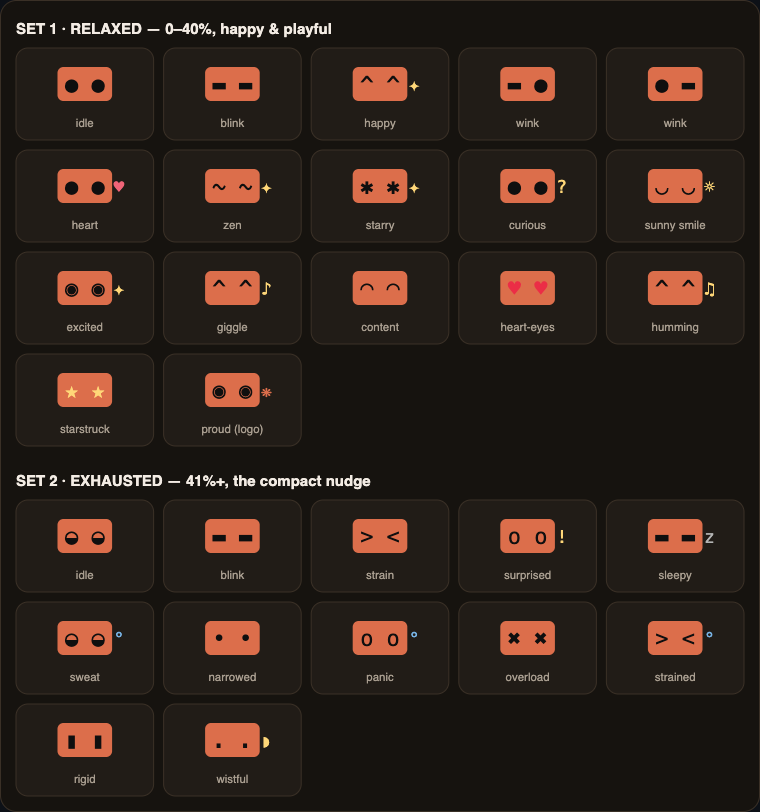
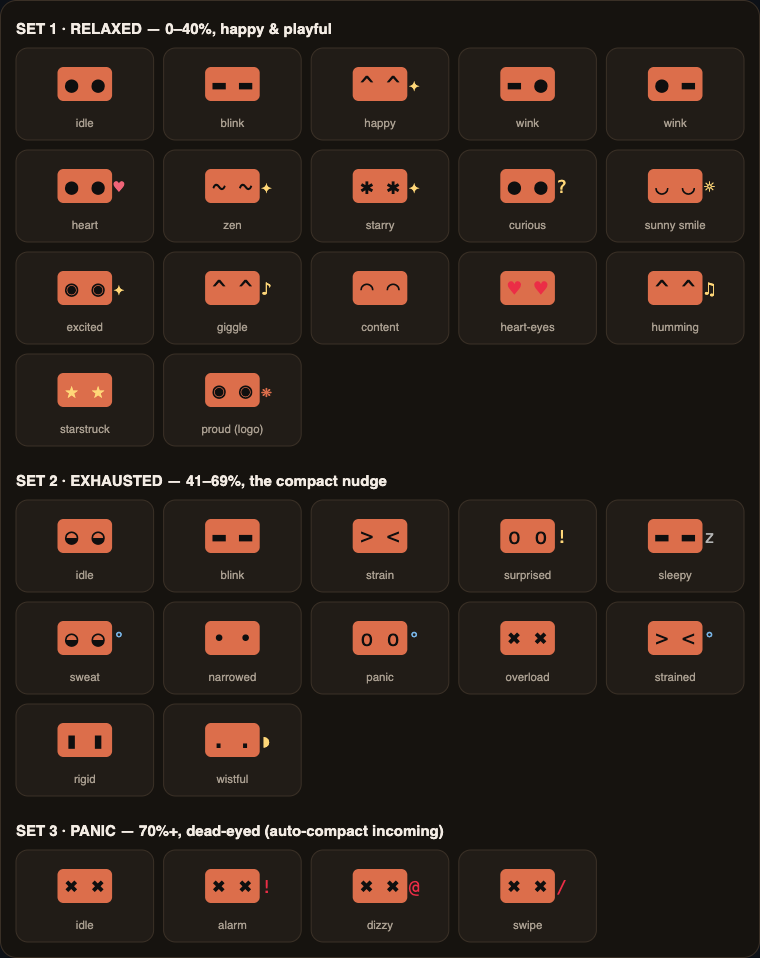
Add Panic mood (70%+) across pet, installer, README, assets, and demo

diff --git a/docs/index.html b/docs/index.html
@@ -19,7 +19,7 @@
  .cyc{position:relative;height:1.5em;--d:12s}
  .cyc .fr{position:absolute;left:0;right:0;top:0;opacity:0;animation:flick12 var(--d) infinite}
  @keyframes flick12{0%{opacity:1}8.33%{opacity:1}8.34%{opacity:0}100%{opacity:0}}
- .cyc-foc{display:none}
+ .cyc-foc,.cyc-panic{display:none}
  .body{background:var(--orange);border-radius:12px;display:inline-block;padding:4px 0}
  .deco{display:inline-block;padding:4px 0}
  .controls{display:flex;flex-direction:column;align-items:center;gap:12px;margin-top:30px}
@@ -42,8 +42,8 @@
  code.inline{background:#0e0c09;border:1px solid var(--line);border-radius:6px;padding:1px 6px;font-family:ui-monospace,Menlo,monospace;font-size:13px}
  footer{text-align:center;color:var(--dim);margin-top:54px;font-size:14px}
  #c60:checked ~ header .cyc-rel,#c80:checked ~ header .cyc-rel,#c100:checked ~ header .cyc-rel{display:none}
- #c60:checked ~ header .cyc-foc,#c80:checked ~ header .cyc-foc,#c100:checked ~ header .cyc-foc{display:block}
- #c0:checked ~ header .tab-rel,#c20:checked ~ header .tab-rel,#c40:checked ~ header .tab-rel,#c60:checked ~ header .tab-foc,#c80:checked ~ header .tab-foc,#c100:checked ~ header .tab-foc{background:var(--orange);color:#1a120c;font-weight:600}
+ #c60:checked ~ header .cyc-foc{display:block}#c80:checked ~ header .cyc-panic,#c100:checked ~ header .cyc-panic{display:block}
+ #c0:checked ~ header .tab-rel,#c20:checked ~ header .tab-rel,#c40:checked ~ header .tab-rel,#c60:checked ~ header .tab-foc,#c80:checked ~ header .tab-panic,#c100:checked ~ header .tab-panic{background:var(--orange);color:#1a120c;font-weight:600}
  #c0:checked ~ header .pip-0,#c20:checked ~ header .pip-20,#c40:checked ~ header .pip-40,#c60:checked ~ header .pip-60,#c80:checked ~ header .pip-80,#c100:checked ~ header .pip-100{background:var(--orange);color:#1a120c;font-weight:600}
  #c0:checked ~ header .ctxbadge,#c20:checked ~ header .ctxbadge,#c40:checked ~ header .ctxbadge{color:#62c462}
  #c60:checked ~ header .ctxbadge{color:#ffd778}
@@ -62,17 +62,18 @@
    <div class="stage">
      <div class="tabs">
        <label for="c20" class="tab tab-rel">🙂 Relaxed</label>
-       <label for="c80" class="tab tab-foc">😩 Exhausted</label>
+       <label for="c60" class="tab tab-foc">😩 Exhausted</label>
+       <label for="c80" class="tab tab-panic">💀 Panic</label>
      </div>
-     <div id="hero"><div class="cyc cyc-rel pet-mono"><div class="fr" style="animation-delay:-0s"><span class="deco"> </span><span class="body" style="color:#0f0f0f"> ● ●</span><span class="deco" style="color:transparent"> </span></div><div class="fr" style="animation-delay:-1s"><span class="deco"> </span><span class="body" style="color:#0f0f0f"> ▬ ▬</span><span class="deco" style="color:transparent"> </span></div><div class="fr" style="animation-delay:-2s"><span class="deco"> </span><span class="body" style="color:#0f0f0f"> ● ●</span><span class="deco" style="color:transparent"> </span></div><div class="fr" style="animation-delay:-3s"><span class="deco"> </span><span class="body" style="color:#0f0f0f"> ^ ^</span><span class="deco" style="color:#ffd778">✦</span></div><div class="fr" style="animation-delay:-4s"><span class="deco"> </span><span class="body" style="color:#0f0f0f"> ● ●</span><span class="deco" style="color:transparent"> </span></div><div class="fr" style="animation-delay:-5s"><span class="deco"> </span><span class="body" style="color:#0f0f0f">● ● </span><span class="deco" style="color:transparent"> </span></div><div class="fr" style="animation-delay:-6s"><span class="deco"> </span><span class="body" style="color:#0f0f0f"> ● ●</span><span class="deco" style="color:transparent"> </span></div><div class="fr" style="animation-delay:-7s"><span class="deco"> </span><span class="body" style="color:#0f0f0f"> ● ●</span><span class="deco" style="color:transparent"> </span></div><div class="fr" style="animation-delay:-8s"><span class="deco"> </span><span class="body" style="color:#0f0f0f"> ▬ ▬</span><span class="deco" style="color:transparent"> </span></div><div class="fr" style="animation-delay:-9s"><span class="deco"> </span><span class="body" style="color:#0f0f0f"> ● ●</span><span class="deco" style="color:#f06478">♥︎</span></div><div class="fr" style="animation-delay:-10s"><span class="deco"> </span><span class="body" style="color:#0f0f0f"> ● ●</span><span class="deco" style="color:transparent"> </span></div><div class="fr" style="animation-delay:-11s"><span class="deco"> </span><span class="body" style="color:#0f0f0f"> ● ●</span><span class="deco" style="color:transparent"> </span></div></div><div class="cyc cyc-foc pet-mono"><div class="fr" style="animation-delay:-0s"><span class="deco"> </span><span class="body" style="color:#0f0f0f"> ◒ ◒</span><span class="deco" style="color:transparent"> </span></div><div class="fr" style="animation-delay:-1s"><span class="deco"> </span><span class="body" style="color:#0f0f0f"> ▬ ▬</span><span class="deco" style="color:transparent"> </span></div><div class="fr" style="animation-delay:-2s"><span class="deco"> </span><span class="body" style="color:#0f0f0f"> ◒ ◒</span><span class="deco" style="color:#78b4e6">°</span></div><div class="fr" style="animation-delay:-3s"><span class="deco"> </span><span class="body" style="color:#0f0f0f"> ◒ ◒</span><span class="deco" style="color:transparent"> </span></div><div class="fr" style="animation-delay:-4s"><span class="deco"> </span><span class="body" style="color:#0f0f0f">◒ ◒ </span><span class="deco" style="color:transparent"> </span></div><div class="fr" style="animation-delay:-5s"><span class="deco"> </span><span class="body" style="color:#0f0f0f"> ◒ ◒</span><span class="deco" style="color:transparent"> </span></div><div class="fr" style="animation-delay:-6s"><span class="deco"> </span><span class="body" style="color:#0f0f0f"> ✖︎ ✖︎</span><span class="deco" style="color:transparent"> </span></div><div class="fr" style="animation-delay:-7s"><span class="deco"> </span><span class="body" style="color:#0f0f0f"> ◒ ◒</span><span class="deco" style="color:transparent"> </span></div><div class="fr" style="animation-delay:-8s"><span class="deco"> </span><span class="body" style="color:#0f0f0f"> ▬ ▬</span><span class="deco" style="color:transparent"> </span></div><div class="fr" style="animation-delay:-9s"><span class="deco"> </span><span class="body" style="color:#0f0f0f"> ◒ ◒</span><span class="deco" style="color:transparent"> </span></div><div class="fr" style="animation-delay:-10s"><span class="deco"> </span><span class="body" style="color:#0f0f0f"> . .</span><span class="deco" style="color:#ffd778">◗</span></div><div class="fr" style="animation-delay:-11s"><span class="deco"> </span><span class="body" style="color:#0f0f0f"> ◒ ◒</span><span class="deco" style="color:transparent"> </span></div></div></div>
+     <div id="hero"><div class="cyc cyc-rel pet-mono"><div class="fr" style="animation-delay:-0s"><span class="deco"> </span><span class="body" style="color:#0f0f0f"> ● ●</span><span class="deco" style="color:transparent"> </span></div><div class="fr" style="animation-delay:-1s"><span class="deco"> </span><span class="body" style="color:#0f0f0f"> ▬ ▬</span><span class="deco" style="color:transparent"> </span></div><div class="fr" style="animation-delay:-2s"><span class="deco"> </span><span class="body" style="color:#0f0f0f"> ● ●</span><span class="deco" style="color:transparent"> </span></div><div class="fr" style="animation-delay:-3s"><span class="deco"> </span><span class="body" style="color:#0f0f0f"> ^ ^</span><span class="deco" style="color:#ffd778">✦</span></div><div class="fr" style="animation-delay:-4s"><span class="deco"> </span><span class="body" style="color:#0f0f0f"> ● ●</span><span class="deco" style="color:transparent"> </span></div><div class="fr" style="animation-delay:-5s"><span class="deco"> </span><span class="body" style="color:#0f0f0f">● ● </span><span class="deco" style="color:transparent"> </span></div><div class="fr" style="animation-delay:-6s"><span class="deco"> </span><span class="body" style="color:#0f0f0f"> ● ●</span><span class="deco" style="color:transparent"> </span></div><div class="fr" style="animation-delay:-7s"><span class="deco"> </span><span class="body" style="color:#0f0f0f"> ● ●</span><span class="deco" style="color:transparent"> </span></div><div class="fr" style="animation-delay:-8s"><span class="deco"> </span><span class="body" style="color:#0f0f0f"> ▬ ▬</span><span class="deco" style="color:transparent"> </span></div><div class="fr" style="animation-delay:-9s"><span class="deco"> </span><span class="body" style="color:#0f0f0f"> ● ●</span><span class="deco" style="color:#f06478">♥︎</span></div><div class="fr" style="animation-delay:-10s"><span class="deco"> </span><span class="body" style="color:#0f0f0f"> ● ●</span><span class="deco" style="color:transparent"> </span></div><div class="fr" style="animation-delay:-11s"><span class="deco"> </span><span class="body" style="color:#0f0f0f"> ● ●</span><span class="deco" style="color:transparent"> </span></div></div><div class="cyc cyc-foc pet-mono"><div class="fr" style="animation-delay:-0s"><span class="deco"> </span><span class="body" style="color:#0f0f0f"> ◒ ◒</span><span class="deco" style="color:transparent"> </span></div><div class="fr" style="animation-delay:-1s"><span class="deco"> </span><span class="body" style="color:#0f0f0f"> ▬ ▬</span><span class="deco" style="color:transparent"> </span></div><div class="fr" style="animation-delay:-2s"><span class="deco"> </span><span class="body" style="color:#0f0f0f"> ◒ ◒</span><span class="deco" style="color:#78b4e6">°</span></div><div class="fr" style="animation-delay:-3s"><span class="deco"> </span><span class="body" style="color:#0f0f0f"> ◒ ◒</span><span class="deco" style="color:transparent"> </span></div><div class="fr" style="animation-delay:-4s"><span class="deco"> </span><span class="body" style="color:#0f0f0f">◒ ◒ </span><span class="deco" style="color:transparent"> </span></div><div class="fr" style="animation-delay:-5s"><span class="deco"> </span><span class="body" style="color:#0f0f0f"> ◒ ◒</span><span class="deco" style="color:transparent"> </span></div><div class="fr" style="animation-delay:-6s"><span class="deco"> </span><span class="body" style="color:#0f0f0f"> ✖︎ ✖︎</span><span class="deco" style="color:transparent"> </span></div><div class="fr" style="animation-delay:-7s"><span class="deco"> </span><span class="body" style="color:#0f0f0f"> ◒ ◒</span><span class="deco" style="color:transparent"> </span></div><div class="fr" style="animation-delay:-8s"><span class="deco"> </span><span class="body" style="color:#0f0f0f"> ▬ ▬</span><span class="deco" style="color:transparent"> </span></div><div class="fr" style="animation-delay:-9s"><span class="deco"> </span><span class="body" style="color:#0f0f0f"> ◒ ◒</span><span class="deco" style="color:transparent"> </span></div><div class="fr" style="animation-delay:-10s"><span class="deco"> </span><span class="body" style="color:#0f0f0f"> . .</span><span class="deco" style="color:#ffd778">◗</span></div><div class="fr" style="animation-delay:-11s"><span class="deco"> </span><span class="body" style="color:#0f0f0f"> ◒ ◒</span><span class="deco" style="color:transparent"> </span></div></div><div class="cyc cyc-panic pet-mono"><div class="fr" style="animation-delay:-0s"><span class="deco"> </span><span class="body" style="color:#0f0f0f"> ✖︎ ✖︎</span><span class="deco" style="color:transparent"> </span></div><div class="fr" style="animation-delay:-1s"><span class="deco"> </span><span class="body" style="color:#0f0f0f"> ✖︎ ✖︎</span><span class="deco" style="color:transparent"> </span></div><div class="fr" style="animation-delay:-2s"><span class="deco"> </span><span class="body" style="color:#0f0f0f"> ✖︎ ✖︎</span><span class="deco" style="color:#eb2d46">!</span></div><div class="fr" style="animation-delay:-3s"><span class="deco"> </span><span class="body" style="color:#0f0f0f"> ✖︎ ✖︎</span><span class="deco" style="color:transparent"> </span></div><div class="fr" style="animation-delay:-4s"><span class="deco"> </span><span class="body" style="color:#0f0f0f">✖︎ ✖︎ </span><span class="deco" style="color:transparent"> </span></div><div class="fr" style="animation-delay:-5s"><span class="deco"> </span><span class="body" style="color:#0f0f0f"> ✖︎ ✖︎</span><span class="deco" style="color:transparent"> </span></div><div class="fr" style="animation-delay:-6s"><span class="deco"> </span><span class="body" style="color:#0f0f0f"> ✖︎ ✖︎</span><span class="deco" style="color:#eb2d46">@</span></div><div class="fr" style="animation-delay:-7s"><span class="deco"> </span><span class="body" style="color:#0f0f0f"> ✖︎ ✖︎</span><span class="deco" style="color:transparent"> </span></div><div class="fr" style="animation-delay:-8s"><span class="deco"> </span><span class="body" style="color:#0f0f0f"> ✖︎ ✖︎</span><span class="deco" style="color:transparent"> </span></div><div class="fr" style="animation-delay:-9s"><span class="deco"> </span><span class="body" style="color:#0f0f0f"> ✖︎ ✖︎</span><span class="deco" style="color:#eb2d46">/</span></div><div class="fr" style="animation-delay:-10s"><span class="deco"> </span><span class="body" style="color:#0f0f0f"> ✖︎ ✖︎</span><span class="deco" style="color:transparent"> </span></div><div class="fr" style="animation-delay:-11s"><span class="deco"> </span><span class="body" style="color:#0f0f0f"> ✖︎ ✖︎</span><span class="deco" style="color:transparent"> </span></div></div></div>
      <div class="controls">
        <span class="ctxbadge"></span>
        <div class="ctxbar"><label for="c0" class="pip pip-0">0</label><label for="c20" class="pip pip-20">20</label><label for="c40" class="pip pip-40">40</label><label for="c60" class="pip pip-60">60</label><label for="c80" class="pip pip-80">80</label><label for="c100" class="pip pip-100">100</label></div>
-       <div class="hint">tap a % to set context — pet flips to Exhausted past 40%</div>
+       <div class="hint">tap a % to set context — Exhausted past 40%, Panic past 70%</div>
      </div>
    </div>
    <h1><span class="paw">&#128062;</span> claude-pet</h1>
-   <p class="tag">A tiny animated Claude that lives in your statusline — and frets when context runs low.</p>
+   <p class="tag">A pixel-art Claude that lives in your statusline and tells you — through sheer existential dread — when it's time to /compact.</p>
  </header>
  <h2>What is it?</h2>
  <p>A single self-contained bash script that prints one 5-cell mascot frame each time Claude Code refreshes your statusline (~once a second). It blinks, glances, and emotes — a pixel-art Claude with a chunky orange body — and reacts to how full your context window is.</p>
@@ -80,24 +81,30 @@
  <ul class="features">
    <li><b>Zero forks, zero temp files.</b> Pure bash builtins + <code class="inline">$RANDOM</code>.</li>
    <li><b>Never loops.</b> Weighted-random frames feel alive, not metronomic.</li>
-   <li><b>Context-aware.</b> Relaxed (0–40%) vs exhausted (41%+) as a compact nudge.</li>
+   <li><b>Context-aware.</b> Three tiers — relaxed (0–40%), exhausted (41–69%), panic (70%+).</li>
    <li><b>No jitter.</b> Every frame is exactly 5 terminal cells.</li>
    <li><b>One file.</b> Drop it in, point your statusline at it.</li>
    <li><b>Mostly idle.</b> Rests, blinks, glances far more than it emotes.</li>
  </ul>
  <h2>Set 1 — Relaxed <span class="setnote">(0–40%: happy &amp; playful · emotes ~every 6s)</span></h2>
  <div class="gallery"><div class="face"><span class="pet-mono"><span class="deco"> </span><span class="body" style="color:#0f0f0f"> ● ●</span><span class="deco" style="color:transparent"> </span></span><small>idle</small></div><div class="face"><span class="pet-mono"><span class="deco"> </span><span class="body" style="color:#0f0f0f"> ▬ ▬</span><span class="deco" style="color:transparent"> </span></span><small>blink</small></div><div class="face"><span class="pet-mono"><span class="deco"> </span><span class="body" style="color:#0f0f0f"> ^ ^</span><span class="deco" style="color:#ffd778">✦</span></span><small>happy</small></div><div class="face"><span class="pet-mono"><span class="deco"> </span><span class="body" style="color:#0f0f0f"> ▬ ●</span><span class="deco" style="color:transparent"> </span></span><small>wink</small></div><div class="face"><span class="pet-mono"><span class="deco"> </span><span class="body" style="color:#0f0f0f"> ● ▬</span><span class="deco" style="color:transparent"> </span></span><small>wink</small></div><div class="face"><span class="pet-mono"><span class="deco"> </span><span class="body" style="color:#0f0f0f"> ● ●</span><span class="deco" style="color:#f06478">♥︎</span></span><small>heart</small></div><div class="face"><span class="pet-mono"><span class="deco"> </span><span class="body" style="color:#0f0f0f"> ~ ~</span><span class="deco" style="color:#ffd778">✦</span></span><small>zen</small></div><div class="face"><span class="pet-mono"><span class="deco"> </span><span class="body" style="color:#0f0f0f"> ✱ ✱</span><span class="deco" style="color:#ffd778">✦</span></span><small>starry</small></div><div class="face"><span class="pet-mono"><span class="deco"> </span><span class="body" style="color:#0f0f0f"> ● ●</span><span class="deco" style="color:#ffd778">?</span></span><small>curious</small></div><div class="face"><span class="pet-mono"><span class="deco"> </span><span class="body" style="color:#0f0f0f"> ◡ ◡</span><span class="deco" style="color:#ffd778">☼</span></span><small>sunny smile</small></div><div class="face"><span class="pet-mono"><span class="deco"> </span><span class="body" style="color:#0f0f0f"> ◉ ◉</span><span class="deco" style="color:#ffd778">✦</span></span><small>excited</small></div><div class="face"><span class="pet-mono"><span class="deco"> </span><span class="body" style="color:#0f0f0f"> ^ ^</span><span class="deco" style="color:#ffd778">♪</span></span><small>giggle</small></div><div class="face"><span class="pet-mono"><span class="deco"> </span><span class="body" style="color:#0f0f0f"> ◠ ◠</span><span class="deco" style="color:transparent"> </span></span><small>content</small></div><div class="face"><span class="pet-mono"><span class="deco"> </span><span class="body" style="color:#eb2d46"> ♥︎ ♥︎</span><span class="deco" style="color:transparent"> </span></span><small>heart-eyes</small></div><div class="face"><span class="pet-mono"><span class="deco"> </span><span class="body" style="color:#0f0f0f"> ^ ^</span><span class="deco" style="color:#ffd778">♫</span></span><small>humming</small></div><div class="face"><span class="pet-mono"><span class="deco"> </span><span class="body" style="color:#ffd778"> ★︎ ★︎</span><span class="deco" style="color:transparent"> </span></span><small>starstruck</small></div><div class="face"><span class="pet-mono"><span class="deco"> </span><span class="body" style="color:#0f0f0f"> ◉ ◉</span><span class="deco" style="color:#dc6e4b">❋</span></span><small>proud (logo)</small></div></div>
- <h2>Set 2 — Exhausted <span class="setnote">(41%+: strained — emotes ~every 4.5s, the compact nudge)</span></h2>
+ <h2>Set 2 — Exhausted <span class="setnote">(41–69%: strained — emotes ~every 4.5s, the compact nudge)</span></h2>
  <div class="gallery"><div class="face"><span class="pet-mono"><span class="deco"> </span><span class="body" style="color:#0f0f0f"> ◒ ◒</span><span class="deco" style="color:transparent"> </span></span><small>idle</small></div><div class="face"><span class="pet-mono"><span class="deco"> </span><span class="body" style="color:#0f0f0f"> ▬ ▬</span><span class="deco" style="color:transparent"> </span></span><small>blink</small></div><div class="face"><span class="pet-mono"><span class="deco"> </span><span class="body" style="color:#0f0f0f"> > <</span><span class="deco" style="color:transparent"> </span></span><small>strain</small></div><div class="face"><span class="pet-mono"><span class="deco"> </span><span class="body" style="color:#0f0f0f"> o o</span><span class="deco" style="color:#ffd778">!</span></span><small>surprised</small></div><div class="face"><span class="pet-mono"><span class="deco"> </span><span class="body" style="color:#0f0f0f"> ▬ ▬</span><span class="deco" style="color:#b4b4b4">z</span></span><small>sleepy</small></div><div class="face"><span class="pet-mono"><span class="deco"> </span><span class="body" style="color:#0f0f0f"> ◒ ◒</span><span class="deco" style="color:#78b4e6">°</span></span><small>sweat</small></div><div class="face"><span class="pet-mono"><span class="deco"> </span><span class="body" style="color:#0f0f0f"> • •</span><span class="deco" style="color:transparent"> </span></span><small>narrowed</small></div><div class="face"><span class="pet-mono"><span class="deco"> </span><span class="body" style="color:#0f0f0f"> o o</span><span class="deco" style="color:#78b4e6">°</span></span><small>panic</small></div><div class="face"><span class="pet-mono"><span class="deco"> </span><span class="body" style="color:#0f0f0f"> ✖︎ ✖︎</span><span class="deco" style="color:transparent"> </span></span><small>overload</small></div><div class="face"><span class="pet-mono"><span class="deco"> </span><span class="body" style="color:#0f0f0f"> > <</span><span class="deco" style="color:#78b4e6">°</span></span><small>strained</small></div><div class="face"><span class="pet-mono"><span class="deco"> </span><span class="body" style="color:#0f0f0f"> ▮ ▮</span><span class="deco" style="color:transparent"> </span></span><small>rigid</small></div><div class="face"><span class="pet-mono"><span class="deco"> </span><span class="body" style="color:#0f0f0f"> . .</span><span class="deco" style="color:#ffd778">◗</span></span><small>wistful</small></div></div>
+ <h2>Set 3 — Panic <span class="setnote">(70%+: dead-eyed — auto-compact incoming)</span></h2>
+ <div class="gallery"><div class="face"><span class="pet-mono"><span class="deco"> </span><span class="body" style="color:#0f0f0f"> ✖︎ ✖︎</span><span class="deco" style="color:transparent"> </span></span><small>idle</small></div><div class="face"><span class="pet-mono"><span class="deco"> </span><span class="body" style="color:#0f0f0f"> ✖︎ ✖︎</span><span class="deco" style="color:#eb2d46">!</span></span><small>alarm</small></div><div class="face"><span class="pet-mono"><span class="deco"> </span><span class="body" style="color:#0f0f0f"> ✖︎ ✖︎</span><span class="deco" style="color:#eb2d46">@</span></span><small>dizzy</small></div><div class="face"><span class="pet-mono"><span class="deco"> </span><span class="body" style="color:#0f0f0f"> ✖︎ ✖︎</span><span class="deco" style="color:#eb2d46">/</span></span><small>swipe</small></div></div>
  <h2>Install — three ways</h2>
 
  <h3>① One line (installer script)</h3>
- <pre class="code"><span class="c"># grab claude-pet-install.sh, then:</span>
+ <pre class="code">curl -fsSL https://raw.githubusercontent.com/AmirYa412/claude-code-pet/main/claude-pet-install.sh | bash
+
+<span class="c"># …or, if you've cloned the repo:</span>
 bash claude-pet-install.sh</pre>
  <p class="setnote">Drops the pet + wrapper into <code class="inline">~/.claude</code> and wires <code class="inline">settings.json</code> (with a backup). Idempotent. Needs <code class="inline">jq</code>.</p>
 
  <h3>② Manual</h3>
- <pre class="code"><span class="c"># make it runnable</span>
+ <pre class="code"><span class="c"># copy the pet into place and make it runnable</span>
+mkdir -p ~/.claude/scripts
+cp claude-pet ~/.claude/scripts/
 chmod +x ~/.claude/scripts/claude-pet
 
 <span class="c"># add to ~/.claude/settings.json</span>

diff --git a/README.md b/README.md
@@ -4,8 +4,7 @@
 
 ## What is it?
 
-A single self-contained Bash script that prints one **5-cell mascot frame** every time Claude Code refreshes your statusline (about once a second).
-It blinks, glances, and emotes — a pixel-art Claude with a chunky orange body — and reacts to how full your context window is.
+A self-contained Bash script that prints one **5-cell mascot frame** every time Claude Code refreshes your statusline (about once a second). It blinks, glances, and emotes — a pixel-art Claude with a chunky orange body — and reacts to how full your context window is.
 
 The animation isn't a fixed loop: each refresh picks a **weighted-random** frame, so the pet feels alive rather than metronomic.
 <p align="center">
@@ -20,20 +19,21 @@ The animation isn't a fixed loop: each refresh picks a **weighted-random** frame
 
 - **Zero forks, zero temp files.** Pure Bash builtins + `$RANDOM`.
 - **Never loops.** Weighted-random frames feel alive, not robotic.
-- **Context-aware.** Relaxed (0–40%) vs. exhausted (41%+) — a gentle nudge to `/compact`.
+- **Context-aware.** Three tiers — relaxed (0–40%), exhausted (41–69%), panic (70%+) — a building nudge to `/compact`.
 - **No jitter.** Every frame is exactly 5 terminal cells wide.
 - **One file.** Drop it in, point your statusline at it.
 - **Mostly idle.** It rests, blinks, and glances far more than it emotes.
 
 ## Expressions
 
-The pet has two moods, switched by context-window usage:
+The pet has three moods, switched by context-window usage:
 
 - 🙂 **Relaxed** (`0–40%`) — happy & playful. Emotes roughly every 6 seconds.
-- 😩 **Exhausted** (`41%+`) — strained. Emotes more often (~every 4.5 s) — your cue to compact.
+- 😩 **Exhausted** (`41–69%`) — strained. Emotes more often (~every 4.5 s) — your cue to compact.
+- 💀 **Panic** (`70%+`) — a dead-eyed `✖ ✖` stare (no more blinking). Auto-compact is closing in.
 
 > [!WARNING]
-> When the pet flips to 😩 **Exhausted** (41%+), that's your nudge to `/compact` before the window fills up.
+> Past **41%** the pet looks exhausted; past **70%** it flips to a panic `✖ ✖` stare — your signal to `/compact` before auto-compact kicks in around 95%.
 
 Here's the full cast:
 